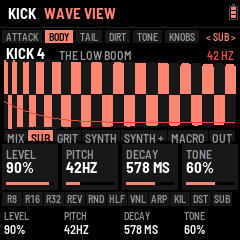
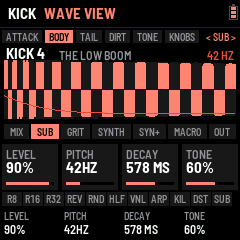
KICK menu: the parts as a full-width bar of tabs, clear of the cards
The wave up a little (its middle at 45, 29 px each way), the section's parts at the picture's foot a bar of tabs
across the whole width (the tabs' letters if they fit, else smaller; SYN+, D+, BANDS, SHAPE, TAIL+, S FX .. C FX
short), 6 px clear of the cards below.

Claude-Session: https://claude.ai/code/session_01SezACdoJJxH9cT2JHvLkit

diff --git a/app/ui/kick.c b/app/ui/kick.c
@@ -800,6 +800,23 @@ static void kick_chip(uint32_t p, char *t)   /* (LOAF BREAKER: a part's name at 
         text_cat(t, "MORPH");
         return;
     }
+    {                                    /* (the long ones short: "SYNTH +" SYN+, "DISTO +" D+, EQ's BANDS, SHAPE;
+                                          * a layer's effect S FX .. C FX, below) */
+        static const uint8_t P[6] = {KP_BASE + 8u, KP_BASE + 5u, KP_BASE + 0u, KP_BASE + 1u, KP_BASE + 18u, 0u};
+        static const char *const S[5] = {"SYN+", "D+", "BANDS", "SHAPE", "TAIL+"};
+        uint32_t j;
+        for (j = 0; j < 5u; j++)
+            if (p == P[j]) {
+                text_cat(t, S[j]);
+                return;
+            }
+    }
+    if (p >= 1u && p < KP_BASE - 2u && ((p - 1u) & 1u)) {   /* (a layer's effect: "S FX" .. "C FX") */
+        char l[2] = {KICK_LAYER_NAME[(p - 1u) / 2u][0], 0};
+        text_cat(t, l);
+        text_cat(t, " FX");
+        return;
+    }
     kick_part_name(p, t);
 }
 static void kick_picture(int32_t top)
@@ -813,7 +830,7 @@ static void kick_picture(int32_t top)
     float tms = 120.0f * brk_exp2f_c((float)set.ksyn[KS_TIME] * 0.04f);
     char t[32], u[8];                    /* (t: the part's words, "PRESETS: EARLY NEXT GEN": room to spare) */
     cv_oy = -top;
-    cv_rect(4, 50, KV_W, 1, C_LINE);     /* (the middle) */
+    cv_rect(4, 45, KV_W, 1, C_LINE);     /* (the middle; LOAF BREAKER: up, the parts' bar under it) */
     if (ui.kview == 0u) {                /* LOAF BREAKER: the RGB view, as rekordbox (the CDJ view's colours): each
                                           * column as tall as its peak, its lows red, mids green, highs blue */
         uint32_t pk = 1u;
@@ -821,7 +838,7 @@ static void kick_picture(int32_t top)
             pk = kv_rgb[i][3] > pk ? kv_rgb[i][3] : pk;
         for (i = 0; i < KV_W; i++) {
             const uint8_t *v = kv_rgb[i];
-            uint32_t m = v[0] > v[1] ? v[0] : v[1], h = (uint32_t)v[3] * 34u / pk, br;
+            uint32_t m = v[0] > v[1] ? v[0] : v[1], h = (uint32_t)v[3] * 29u / pk, br;
             m = v[2] > m ? v[2] : m;
             if (!m || !h)
                 continue;
@@ -832,7 +849,7 @@ static void kick_picture(int32_t top)
                 r = r * r / 255u;
                 g = g * g / 255u;
                 b = b * b / 255u;
-                cv_rect(4 + (int32_t)i, 50 - (int32_t)h, 1, 2 * (int32_t)h + 1,
+                cv_rect(4 + (int32_t)i, 45 - (int32_t)h, 1, 2 * (int32_t)h + 1,
                         set.wstyle ? serato_col(v[0], v[1], v[2], br) : RGB(r * br / 255u, g * br / 255u, b * br / 255u));
             }
         }
@@ -840,11 +857,11 @@ static void kick_picture(int32_t top)
     for (i = 0; i < KV_W; i++) {         /* the hit: its level (dim, mirrored), its wave over it */
         int32_t h = kv_px[i], w = kv_wave[i];
         if (h)
-            cv_rect(4 + (int32_t)i, 50 - h, 1, 2 * h + 1, C_BLOCK);
+            cv_rect(4 + (int32_t)i, 45 - h, 1, 2 * h + 1, C_BLOCK);
         if (w > 0)
-            cv_rect(4 + (int32_t)i, 50 - w, 1, w, C_HI);
+            cv_rect(4 + (int32_t)i, 45 - w, 1, w, C_HI);
         else if (w < 0)
-            cv_rect(4 + (int32_t)i, 51, 1, -w, C_HI);
+            cv_rect(4 + (int32_t)i, 46, 1, -w, C_HI);
     }
     if (kscope_hit && !(set.kfocus && (ui.kpage == KP_LAYER || ui.kpage == KP_FX || ui.kpage == KP_STACK))) {
                                           /* LOAF BREAKER TEST: the kick as it really sounds, its last hit: white over it
@@ -855,11 +872,11 @@ static void kick_picture(int32_t top)
             pk = (v < 0 ? -v : v) > pk ? (v < 0 ? -v : v) : pk;
         }
         for (i = 0; i < KV_W && i < KSC_W; i++) {
-            v = kscope[i] * 34 / pk;
+            v = kscope[i] * 29 / pk;
             if (v) {
                 uint32_t sx = i * 250u / KV_MS;   /* (its 250 ms, on the picture's time) */
                 if (sx < KV_W)
-                    cv_rect(4 + (int32_t)sx, 50 - v, 1, 1, C_WHITE);
+                    cv_rect(4 + (int32_t)sx, 45 - v, 1, 1, C_WHITE);
             }
         }
     }
@@ -871,7 +888,7 @@ static void kick_picture(int32_t top)
         else if (klab.cur.curve == 2u)
             pe = 1.0f - (1.0f - pl) * (1.0f - pl) * (1.0f - pl);
         f = hz * (1.0f + drop * pe);
-        int32_t y = 84 - (int32_t)(brk_clampf(brk_log2f(f / 30.0f) / 5.06f, 0.0f, 1.0f) * 68.0f);
+        int32_t y = 74 - (int32_t)(brk_clampf(brk_log2f(f / 30.0f) / 5.06f, 0.0f, 1.0f) * 58.0f);
         if (x)
             cv_line(2 + x, py, 4 + x, y, ui.kview == 0u ? C_WHITE : C_AMB);   /* (white over the RGB) */
         py = y;
@@ -884,7 +901,7 @@ static void kick_picture(int32_t top)
                          : (klab.cur.end ? kick_lab_ms(KLM_END, klab.cur.end) : -1.0f);
             int32_t mx = 4 + (int32_t)(ms * ((float)KV_W / (float)KV_MS));
             if (ms >= 0.0f && mx < 4 + (int32_t)KV_W)
-                for (x = 18; x < 84; x += 4)
+                for (x = 16; x < 74; x += 4)
                     cv_rect(mx, x, 1, 2, m ? C_AMB : C_WHITE);
         }
     }
@@ -923,33 +940,39 @@ static void kick_picture(int32_t top)
     int_text((int32_t)(hz + 0.5f), t + text_n(t));
     text_cat(t, " HZ");
     cv_text(234 - text_w(&FONT_XS, t), 4, &FONT_XS, t, C_AMB);
-    {                                    /* LOAF BREAKER (0.205): the section's parts at the foot, the one open lit
-                                          * (BEGINNER: those it passes over dim) */
-        uint32_t s = ui.ksect % KSECTS, n = KSECT_N[s], j, w = 0u, open = kick_part(), gap;
-        int32_t cx;
+    {                                    /* LOAF BREAKER (0.205; 0.207 a bar): the section's parts at the foot, as the
+                                          * tabs: the whole width, the one open lit (BEGINNER: those it passes over
+                                          * dim); the tabs' letters if they fit, else smaller */
+        uint32_t s = ui.ksect % KSECTS, n = KSECT_N[s], j, w = 0u, open = kick_part(), extra;
+        const felucca_font_t *f = &FONT_T;
+        int32_t cx = 4, y = 80;
         char c[16];
         for (j = 0; j < n; j++) {
             c[0] = 0;
             kick_chip(KSECT[s][j], c);
-            w += (uint32_t)text_w(&FONT_XS, c) + 6u;
+            w += (uint32_t)text_w(&FONT_T, c) + 8u;
         }
-        gap = n > 1u && w < 232u ? (232u - w) / (n - 1u) : 0u;
-        gap = gap > 10u ? 10u : gap;
-        cx = 4;
+        w += 2u * (n - 1u);
+        if (w > KV_W) {                  /* (too wide: the small letters) */
+            f = &FONT_XS;
+            for (w = 2u * (n - 1u), j = 0; j < n; j++) {
+                c[0] = 0;
+                kick_chip(KSECT[s][j], c);
+                w += (uint32_t)text_w(&FONT_XS, c) + 6u;
+            }
+        }
+        extra = w < KV_W ? KV_W - w : 0u;
         for (j = 0; j < n; j++) {
             uint32_t p = KSECT[s][j];
-            int32_t tw;
+            int32_t tw, sw;
             c[0] = 0;
             kick_chip(p, c);
-            tw = text_w(&FONT_XS, c) + 6;
-            if (p == open) {
-                cv_rect(cx, 86, tw, 11, C_HI);
-                cv_text(cx + 3, 87, &FONT_XS, c, C_BLACK);
-            } else {
-                cv_rect(cx, 86, tw, 11, C_BLOCK);
-                cv_text(cx + 3, 87, &FONT_XS, c, kp_hidden(p) ? C_DIM : C_GRAY);
-            }
-            cx += tw + (int32_t)gap;
+            tw = text_w(f, c);
+            sw = tw + (f == &FONT_T ? 8 : 6) + (int32_t)(extra / n) + (j < extra % n ? 1 : 0);   /* (the room shared) */
+            cv_rect(cx, y, sw, 15, p == open ? C_HI : C_BLOCK);
+            cv_text(cx + (sw - tw) / 2, f == &FONT_T ? y + 2 : y + 4, f, c,
+                    p == open ? C_BLACK : kp_hidden(p) ? C_DIM : C_GRAY);
+            cx += sw + 2;
         }
     }
     cv_oy = 0;
@@ -1032,14 +1055,14 @@ static void draw_kick(const brk_status_t *st)
         if (ui.kview == 0u)              /* (LOAF BREAKER: the RGB view, its peaks its own; or the wave over its level) */
             kick_rgb(&kk, kv_rgb, KV_W, KV_MS);
         else {
-            kick_shape(&kk, kv_px, KV_W, KV_MS, 34u);
-            kick_wave(&kk, kv_wave, KV_W, KV_MS, 34u);
+            kick_shape(&kk, kv_px, KV_W, KV_MS, 29u);
+            kick_wave(&kk, kv_wave, KV_W, KV_MS, 29u);
         }
         for (top = 0; top < KV_W; top++)
             pk = kv_px[top] > pk ? kv_px[top] : pk;
         for (top = 0; pk && top < KV_W; top++) {   /* (as tall as it goes) */
-            kv_px[top] = (uint8_t)((uint32_t)kv_px[top] * 34u / pk);
-            kv_wave[top] = (int8_t)((int32_t)kv_wave[top] * 34 / (int32_t)pk);
+            kv_px[top] = (uint8_t)((uint32_t)kv_px[top] * 29u / pk);
+            kv_wave[top] = (int8_t)((int32_t)kv_wave[top] * 29 / (int32_t)pk);
         }
     }
     for (top = 0; top < 100u; top += 60u) {   /* (y 44..143, strips of 60 rows) */

diff --git a/app/docs/MANUAL.md b/app/docs/MANUAL.md
@@ -178,8 +178,9 @@ the pages without any: what SEL + K1–K4 turn). SEL again, or any other button,
   next section, the kick's anatomy from its hit to its end: **ATTACK** (CLICK, PUNCH, STACK), **BODY** (MIX, SUB, GRIT,
   SYNTH, SYNTH +, MACRO, OUT; the menu opens here), **TAIL** (TAIL, TAIL +, BASS, MORPH), **DIRT** (DISTO, DISTO +,
   SCREAM, the layers' effects), **TONE** (EQ BANDS, EQ SHAPE, FX 1, FX 2), **KNOBS** (KNOBS, K1–K4, STYLE, TOOLS);
-  **ALGORITHM**: the next part in it (each section remembers where you were). The section's parts are in a row at
-  the foot of the picture, the one open lit (BEGINNER: those it passes over dimmed). **KNOBS** puts the live knobs on the kick's picture: its first part, KNOBS, has K1–K4 turn what SEL + K1–K4
+  **ALGORITHM**: the next part in it (each section remembers where you were). The section's parts are a bar of tabs at
+  the foot of the picture, the whole width, the one open lit (BEGINNER: those it passes over dimmed; short names
+  there: SYN+ for SYNTH +, D+ for DISTO +, S FX .. C FX for the layers' effects). **KNOBS** puts the live knobs on the kick's picture: its first part, KNOBS, has K1–K4 turn what SEL + K1–K4
   turn (DRIVE, SCREAM, D+ SCREECH, DISTO to start: their first setting, their value large), so you hear and see the
   kick as you set them; then **K1 SET .. K4 SET**, each knob's function with all its settings (DISTO:
   AMOUNT, SUB, FIZZ, SUSTAIN; MORPH: AMOUNT, TO KICK…), the function's name by the kick's (KICK 4  K4 DISTO). They

diff --git a/CLAUDE.md b/CLAUDE.md
@@ -60,7 +60,8 @@ E-*, N-*; milestones M0–M8). Keep the PRD in step when scope changes.
   The tabs drop the "KICK" label on the KICK menu (six sections). SAVE writes 8 objects.
 - KICK menu by anatomy (10 Nov 2026, 0.205, FLEXOR's choice): KSECT ATTACK, BODY, TAIL, DIRT, TONE, KNOBS (kick.c);
   app_ui_init opens it on BODY (ui.ksect 1, its MIX: the first EDIT still kpage 0); the parts in a row at the
-  picture's foot (kick_chip). Views (ui.kview, EDIT held): RGB (kick_rgb, 500 ms), WAVE, then CLASSIC (ui.kclassic).
+  picture's foot (kick_chip; 0.207: a full-width bar of tabs, FONT_T if it fits, the wave up: its middle y 45, 29
+  px each way). Views (ui.kview, EDIT held): RGB (kick_rgb, 500 ms), WAVE, then CLASSIC (ui.kclassic).
 - GLO EFFECTS K3 WAVE (`set.wstyle`: REKORDBOX / SERATO, common.c serato_col; the kick's RGB and cdj.c) and K4 KICK
   VIEW (`set.kfocus`: the whole kick / the part edited: kick.c kv_ms, kv_kick) (10 Nov 2026, 0.206).
 - No Bluetooth, ever (FLEXOR's rule). The GLOUPI BREAKS start-up photo must never come back into the repository.
